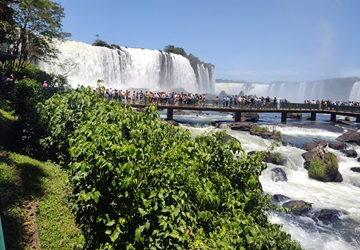
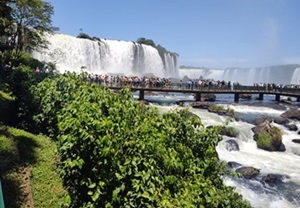
modified:   project/images/catacumba-trail-card.jpg 	modified:   project/images/cataratas-iguacu-card.jpg 	modified:   project/images/pedra-bonita-trail-card.jpg 	modified:   project/places.html 	modified:   project/styles/places.css

diff --git a/project/places.html b/project/places.html
@@ -45,24 +45,24 @@
         <h2>Places</h2>
         <div id="m_1">
             <div class = "m1_div">
-                <figure class="img_container">
-                    <img src="images/pedra-bonita-trail-card.jpg" alt ="Image of the landscape at the end of the Pedra Bonita trail." width="360" height="250" class="img_tunning">
+                <figure>
+                    <img src="images/pedra-bonita-trail-card.jpg" alt ="Image of the landscape at the end of the Pedra Bonita trail." width="300" height="208" class="img_tunning">
                 </figure>
                 <h3>Pedra Bonita Trail</h3>
                 <p><span>Location:</span>The trail begins on Estrada da Pedra Bonita, between Pedra da Gávea and the neighborhoods of São Conrado and Barra da Tijuca in Rio de Janeiro, Brazil.</p>
                 <p><span>Description:</span>The Pedra Bonita trail, in the Tijuca National Park, is a route of 1,257 meters one way, with an altitude of 693 meters</p>
             </div>
             <div class = "m1_div">
-                <figure class="img_container">
-                    <img src="images/cataratas-iguacu-card.jpg" alt ="Image of the landscape at the end of the Pedra Bonita trail." width="360" height="250" class="img_tunning">
+                <figure>
+                    <img src="images/cataratas-iguacu-card.jpg" alt ="Image of the landscape at the end of the Pedra Bonita trail." width="300" height="208" class="img_tunning">
                 </figure>
                 <h3>Iguaçu Falls Trail</h3>
                 <p><span>Location:</span>The waterfalls trail is accessible through the Cataratas National Park located in Foz do Iguaçu, Paraná, Brazil.</p>
                 <p><span>Description:</span>The Iguaçu Falls Trail, in the Iguaçu Falls National Park, is a 1,000-meter one-way trail, well-marked and easy to follow. It allows you to contemplate one of the seven wonders of nature, while walking through the forest. It is truly a breathtaking spectacle.</p>
             </div>
             <div class = "m1_div">
-                <figure class="img_container">
-                    <img src="images/catacumba-trail-card.jpg" alt ="Image of the landscape at the end of the Catacumba trail." width="360" height="250" class="img_tunning">
+                <figure>
+                    <img src="images/catacumba-trail-card.jpg" alt ="Image of the landscape at the end of the Catacumba trail." width="300" height="208" class="img_tunning">
                 </figure>
                 <h3>Catacumba Trail</h3>
                 <p><span>Location:</span>The Catacumba trail is located in the Catacumba Municipal Natural Park, in Lagoa Rodrigo de Freitas, Rio de Janeiro, Brazil.</p>

diff --git a/project/styles/places.css b/project/styles/places.css
@@ -1,18 +1,18 @@
 #m_1{
 	display: grid;
-	grid-template-columns: auto;	
+	grid-template-columns: auto;
+    align-items: center;	
 }
 .m1_div{
 	display: flex;
 	flex-direction: column ;
 	align-items: center;
-	justify-content: center;
+	width: 340px;
 	background-color:var(--complementary-color);
 	padding-top: 20px;
-	margin-bottom: 20px;
-	width: 100%;
+	margin-bottom: 10px;
     border-radius: 8px;
-    height: 500px;
+    height: 460px;
 }
 .m1_div p{
     padding: 10px;
@@ -24,20 +24,14 @@
     font-weight: bold;
 	color: var(--primary-color);
 }
-/* Begin of image section */
-.img_container{
-	width: 300px;
-	 /* Defina a altura desejada */
-	padding-top: 10px;
-	padding-bottom: 20px;
-}
+
 
 /* large view navigation and images************************************/
 @media (min-width: 500px) {
     #m_1{
 		place-items: center;
 		column-gap: 10px;
-		grid-template-columns: repeat( auto-fit, minmax(600px, 1fr) );	
+		grid-template-columns: repeat( auto-fit, minmax(400px, 1fr) );	
 	}
 
 	.img_container{
@@ -45,6 +39,6 @@
 	}
 
 	.m1_div{
-		width: 430px;
+		width: 350px;
 	}
 }
